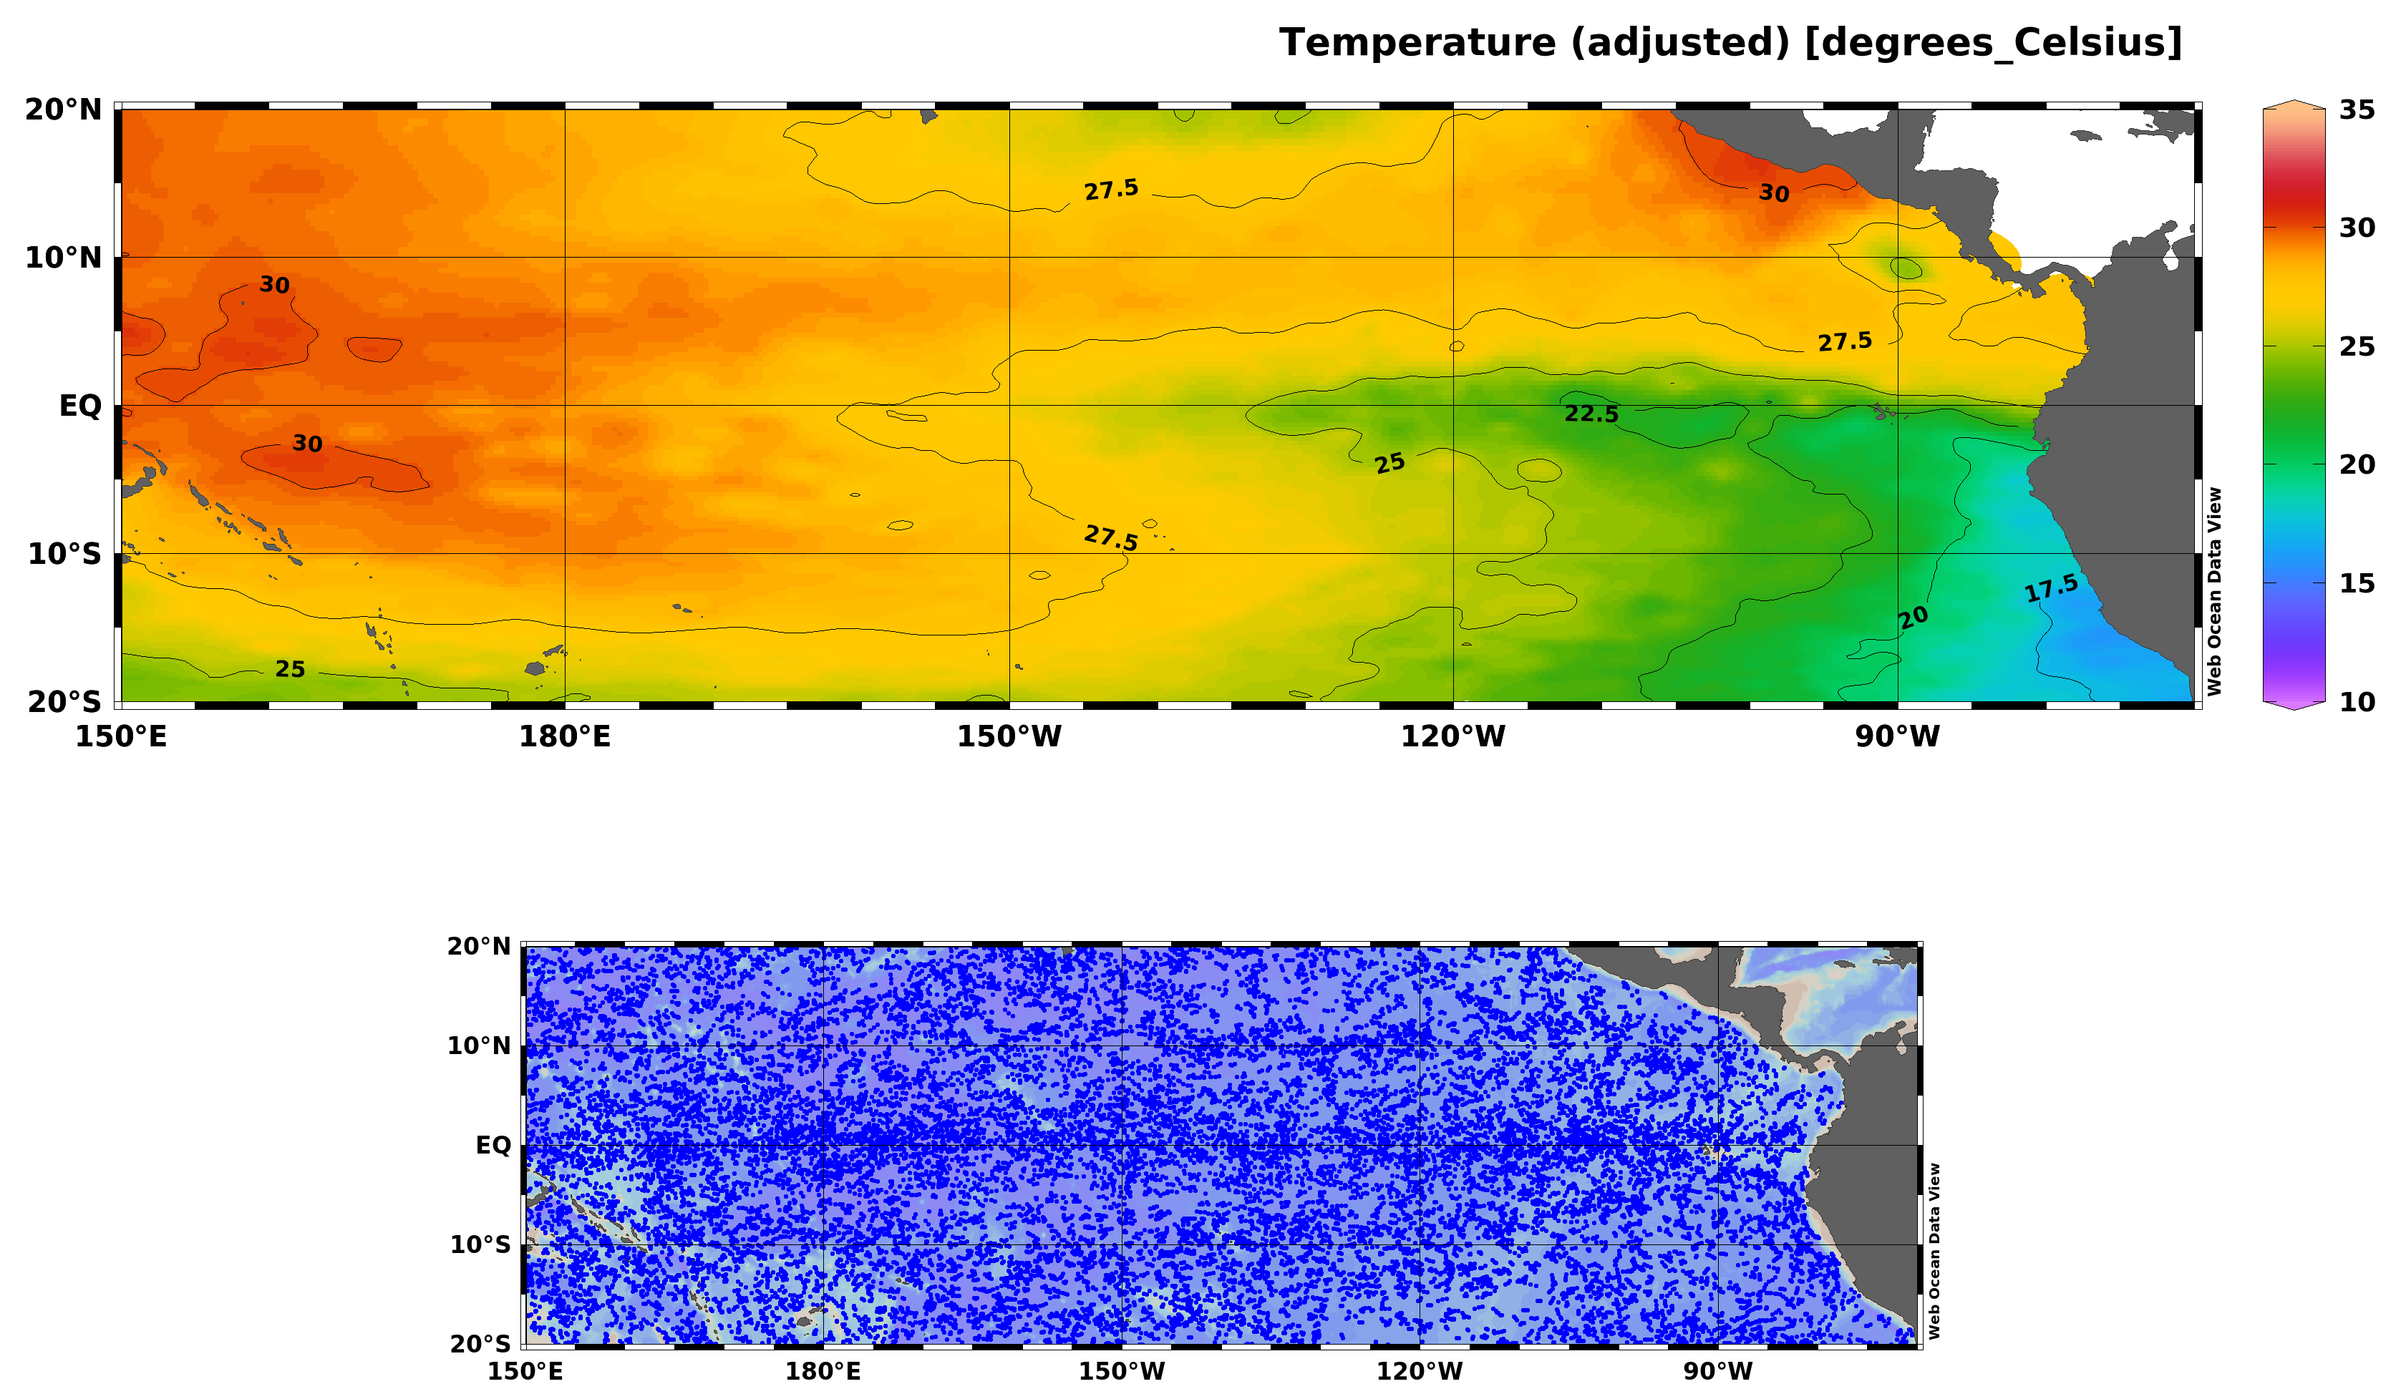
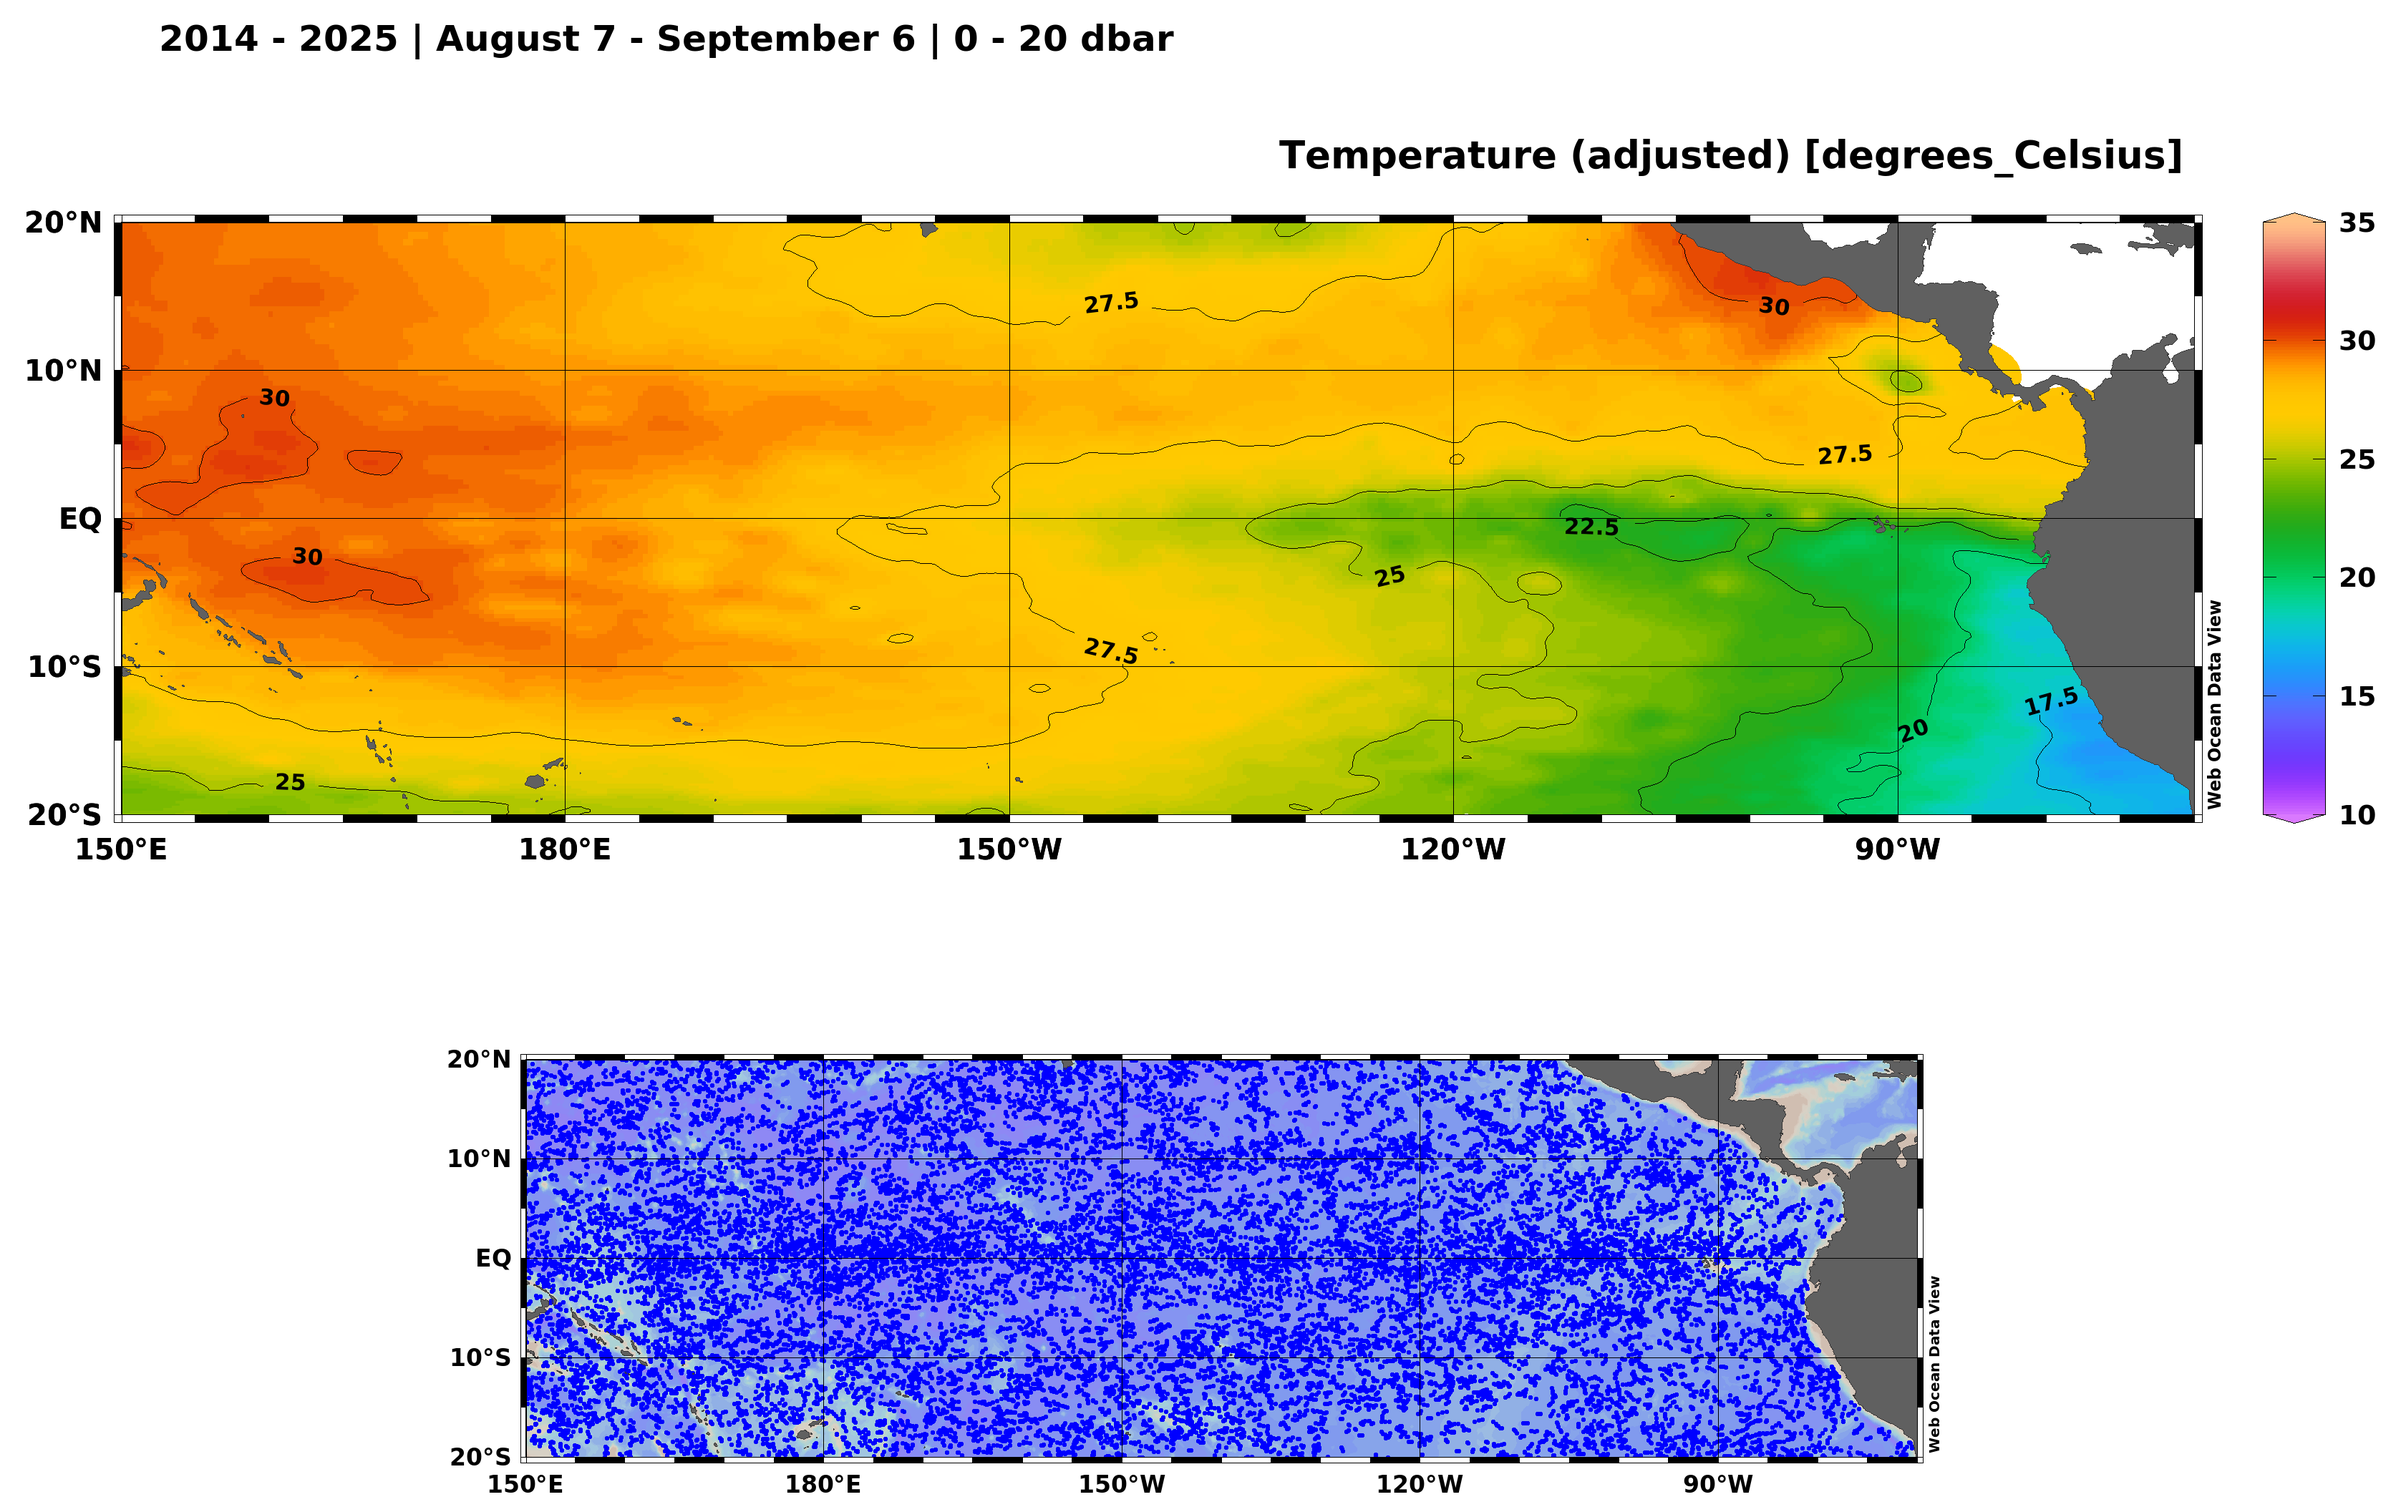
commit

diff --git a/README.md b/README.md
@@ -63,15 +63,24 @@ Use this *.xview* to access the plot immediately: [enso_surface_step3.xview](./x
 Open the *Properties* of the scatter window. On the *Display Style* tab click on the *Gridded field*
 radio button. From the dropdown menu, choose *DIVA gridding*, deselect the *Automatic scale length*
 and *Draw marks* (left) checkboxes. Enter *20* for the *X scale length* and *Y scale length*. Select
-the *Contours* tab. Enter *10* Start, *2.5* Increment and *35* End. Click on the << Symbol. Click on Apply.
+the *Contours* tab. Enter *10* Start, *2.5* Increment and *35* End. Click on the << Symbol. Click on
+Apply.  Right click into the white area (canvas), select *Layout->Add Graphics Object->Annotation*
+(*CTRL-A*). A crosshair appears, left click into the white area to place an annotation. On the
+dialog enter *2014 - 2025 | August 7 - September 6 | 0 - 20 dbar*, change the Font size to *16*. Click Apply. Move
+the annotation with the left mouse click.
 
 ![alt text](./img/enso_surface_step_4.png "Gridding") 
 Use this *.xview* to access the plot immediately: [enso_surface_step4.xview](./xviews/enso_surface_step4.xview).
 
+## Store data
+
+Now we have created what we name the seasonally matched reference data. Right click into the plot,
+select *Extras->Export Window Data->to Clipboard* or *...->to File*. On the dialog click *Start
+Export*. Now the reference data are saved in the "clipboard" or in a file.
 
 
 
-![alt text](./img/step3.png "Scatter Window") 
+
 
 
 ## Filter Depth and Outliers
@@ -138,6 +147,9 @@ Right click into the Scatter Window, on the dialog select *X-Variable* (*X* on t
 and choose *drvd: Time (station date/time)*. Repeat for *Y-Variable*
 and choose *9. Bottle Dissolved Oxygen [umol/kg]*.
 Respective view file: [webodv_xservint_hot_scatter.xview](./xviews/webodv_xservint_hot_scatter.xview).
+
+
+
 
 ![alt text](./img/hot_step_2.jpg "Scatter") 
 
